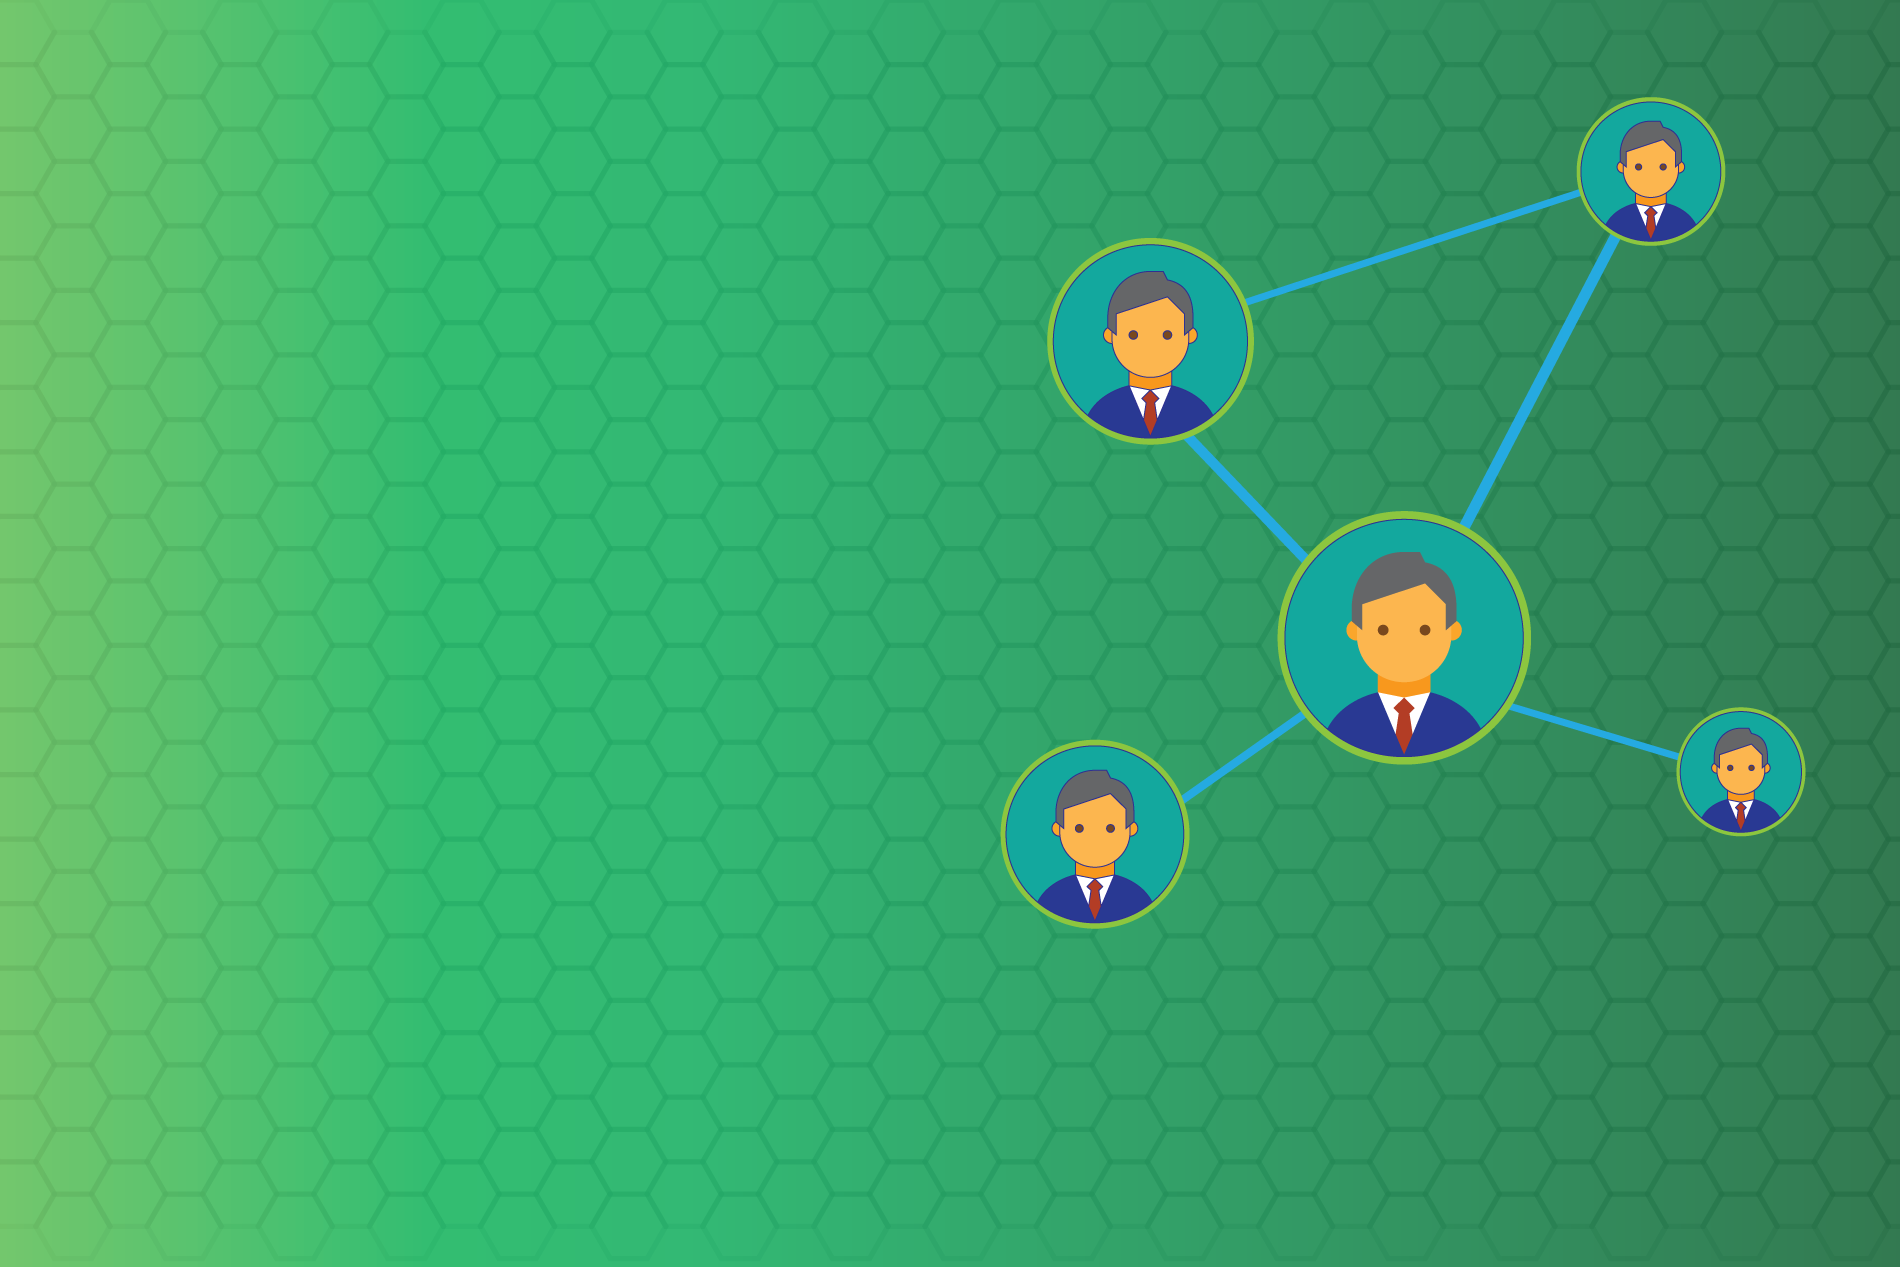
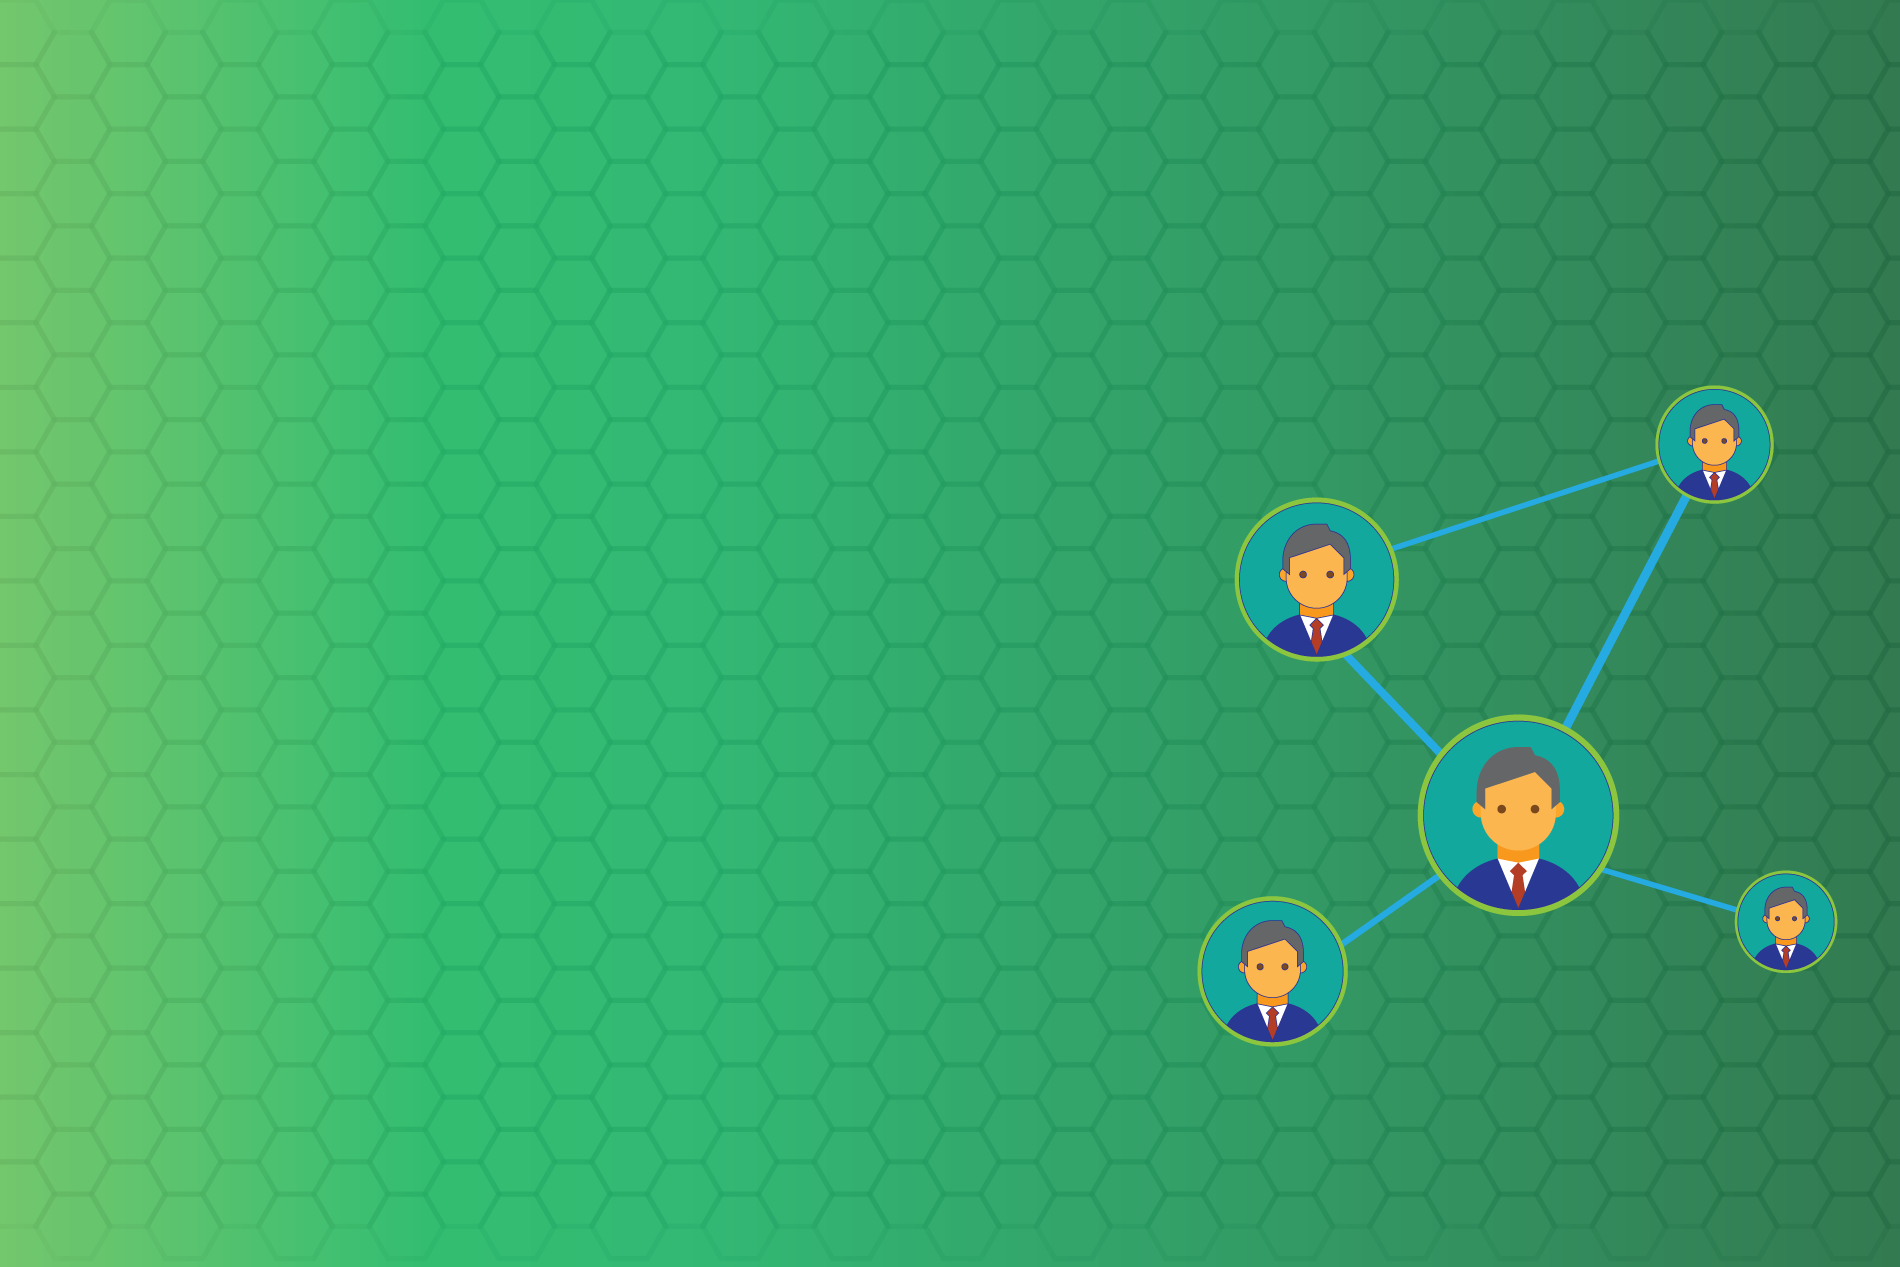
Changed the header image based on screen and scroll. Changed the background image added careers

diff --git a/careers.html b/careers.html
@@ -110,10 +110,96 @@
           Job Opportunities
         </h2>
 
-        <p>
-          Opportunity 1
+        <h3>
+        Mobile Application Developer – iOS and Android
+        </h3>
+        <br>
+        <h4>
+        Description
+        </h4>
+        <p class="description-content">
+        	The Mobile Application Developer role will design and develop mobile application as a member of our team. With experience in iOS, Android, and React Native development, this person will collaborate with members of the team to produce high quality UX solutions for our front-end mobile platform.
         </p>
+        <h4>
+        	Responsibilities
+        </h4>
+        <ul>
+        <li>  Be a key contributor to all phases of software development mobile platform including ideation, prototyping, design, develop, and unit test</li>
+			<li>  Advocate for clean design, maintainability and reusability</li>
+			<li>  Build products, tools and services from scratch, as well as evolve existing systems</li>
+			<li>  Work directly with the founders to set the technology and architectural roadmap
+			<li>  Ensure product quality and timeliness of work, provide advice and guidance, and resolve problems to meet objectives</li>
+			<li>  Help develop new and refine existing processes to enhance quality and productivity</li>
+			<li>  Play an active role in hiring and mentoring other engineers</li>
+			<li>  Research and recommend tools and technologies in support of mobile development</li>
+			<li>  Become a domain expert in real estate</li>
 
+        </ul>
+
+        <h4>
+        	Requirements
+        </h4>
+        <ul>
+        	<li>  BS or MS in Computer Science, Information Systems/Technology, or equivalent discipline.</li>
+			<li>  2+ years programming native mobile applications specifically in iOS, Android, or React Native.</li>
+			<li>  Familiar with UI/UX best practices and Google’s Material Design specification is a plus.</li>
+			<li>  Experience publishing at least one consumer application to Apple App store and/or Google Play store.</li>
+			<li>  Strong working knowledge of node.js, javascript, and JSX.  Experience with Objective-C and Swift is a plus</li>
+			<li>  Experience with OOP, MVC, and software design patterns.</li>
+			<li>  Experience with data exchange (JSON, XML) and states (Redux)</li>
+			<li>  Familiar with interacting with web services (REST, SOAP) and various formats (JSON, XML)</li>
+			<li>  Familiar with developing real-time client interactivity using web sockets</li>
+			<li>  Experience with production software development using tools such as Git, Jenkins, etc.</li>
+			<li>  Familiar with creating and automating tests for mobile platforms</li>
+			<li>  Familiar with customizing push notifications interactions</li>
+			<li>  Integration with mobile analytic SDK (i.e. Google Analytics, Firebase, etc.)</li>
+			<li>  Experience creating and maintaining technical design and systems architecture documentation.</li>
+			<li>  Experience in Agile methodologies and developing working prototypes.</li>
+			<li>  Must be able to work effectively and efficiently in a collaborative environment with founders, project managers, designers, and developers.</li>
+        </ul>
+
+        <h3>
+        Software Development Engineer - Platform, Infrastructure, and Backend
+        </h3>
+        <br>
+        <h4>
+        Description
+        </h4>
+    	<p class="description-content">
+    		The Software Development Engineer role will design and build core backend services and features for performance, security, and scalability of the OfferFast platform.  This person will collaborate with our front-end mobile developers to build tools, interfaces, and processes for efficient use of data structures and algorithms for performant services.
+    	</p>
+
+        <h4>
+        Responsibilities
+        </h4>
+        <ul>
+        	<li>  Work with founders and team to design and implement new features for the OfferFast Application</li>
+			<li>  Dedicated to optimizing the performance and scalability of the OfferFast infrastructure as the service continues to grow</li>
+			<li>  Improve the reliability and efficiency of OfferFast's core services</li>
+			<li>  Develop elegant solutions to complex problems</li>
+			<li>  Code in Java, Javascript, and/or Python in a unix environment</li>
+			<li>  Collaborate with front-end developers (iOS, Android, Web), on building new features, and iterating on existing features</li>
+		</ul>
+        <h4>
+        Requirements
+        </h4>
+        <ul>
+        	<li>  BS or MS in Computer Science, Information Systems/Technology, or equivalent discipline.</li>
+			<li>  2+ years professional software engineering experience</li>
+			<li>  Strong background with algorithms and data structures</li>
+			<li>  Demonstrate strong coding skills using Java, Python, C/C++, Golang, Scala, PHP (or equivalent programming language)</li>
+			<li>  Experience with software engineering best practices (e.g. unit testing, code reviews, design documentation)</li>
+			<li>  Extensive experience with web applications, backend infrastructure, distributed systems, performance analysis, and traffic manipulation</li>
+			<li>  Be comfortable designing services on top of a cloud infrastructure e.g. AWS, Google Cloud Platform, Azure</li>
+			<li>  Experience designing and implementing performant and fault-tolerant distributed systems</li>
+			<li>  Proficient with both Relational and NoSQL databases (e.g. MySQL, Postgres, MongoDB)</li>
+			<li>  Proficient with Google and Apple push notification services</li>
+			<li>  Experience with source control management best practices to maintain Continuous Integration / Continuous Delivery</li>
+			<li>  Experience with developing monitoring solutions to list areas of improvement through capture and comparison of metrics on uptime, performance, invalid requests, etc.</li>
+			<li>  Experience creating and maintaining technical design and systems architecture documentation.</li>
+			<li>  Experience in Agile methodologies and developing working prototypes.</li>
+			<li>  Must be able to work effectively and efficiently in a collaborative environment with founders, project managers, designers, and developers.</li>
+        </ul>
         <h2>
           Interested?
         </h2>
@@ -150,6 +236,9 @@
 
     <!-- Theme JavaScript -->
     <script src="js/creative.min.js"></script>
+
+    <!-- Change logo based on screen and scroll -->
+    <script src="js/logo-change.js"></script>
 
 </body>
 

diff --git a/index.html b/index.html
@@ -42,7 +42,7 @@
 
 </head>
 
-<body id="page-top">
+<body id="page-top" onscroll="changeLogo()" onload="changeLogo()">
 
     <nav id="mainNav" class="navbar navbar-default navbar-fixed-top">
         <div class="container-fluid">
@@ -52,7 +52,7 @@
                     <span class="sr-only">Toggle navigation</span> Menu <i class="fa fa-bars"></i>
                 </button>
                 <a class="navbar-brand page-scroll" href="#page-top"><!-- OFFERFAST -->
-                  <img src="./img/logo 100x25.png">
+                  <img id="logo" src="./img/logo 100x25.png">
                 </a>
             </div>
 
@@ -743,6 +743,8 @@
 
     <!-- Theme JavaScript -->
     <script src="js/creative.min.js"></script>
+
+    <script src="js/logo-change.js"></script>
 
 </body>
 

diff --git a/js/logo-change.js b/js/logo-change.js
@@ -1,0 +1,12 @@
+function changeLogo() {
+  //var el = window.scrollY;
+  //var el = document.;
+  //console.log(window.scrollY);
+  var y = window.scrollY;
+  var width = window.screen.width;
+  if(y>0 || width<768) {
+  	document.getElementById('logo').src="./img/logo-green-100.png";
+  } else {
+  	document.getElementById('logo').src="./img/logo 100x25.png";
+  };
+}

diff --git a/faq.html b/faq.html
@@ -541,6 +541,9 @@
     <!-- Theme JavaScript -->
     <script src="js/creative.min.js"></script>
 
+    <!-- Change logo image based on screen and scroll -->
+    <script src="js/logo-change.js"></script>
+
 </body>
 
 </html>

diff --git a/css/creative.css b/css/creative.css
@@ -760,3 +760,6 @@ body {
   margin-top: 2em;
 }
 
+.description-content {
+	margin-left: 10px;
+}
